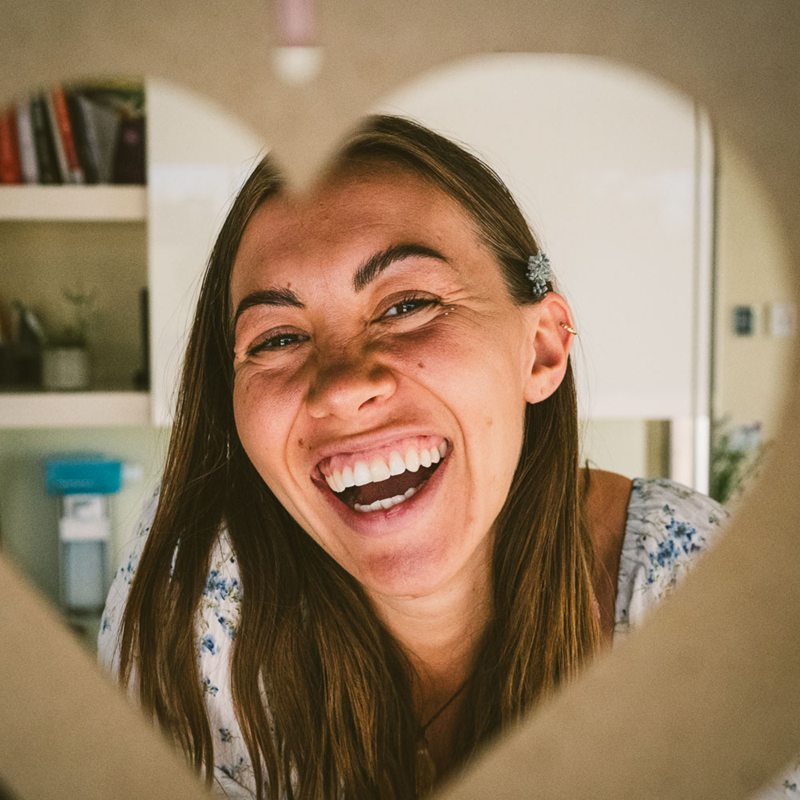
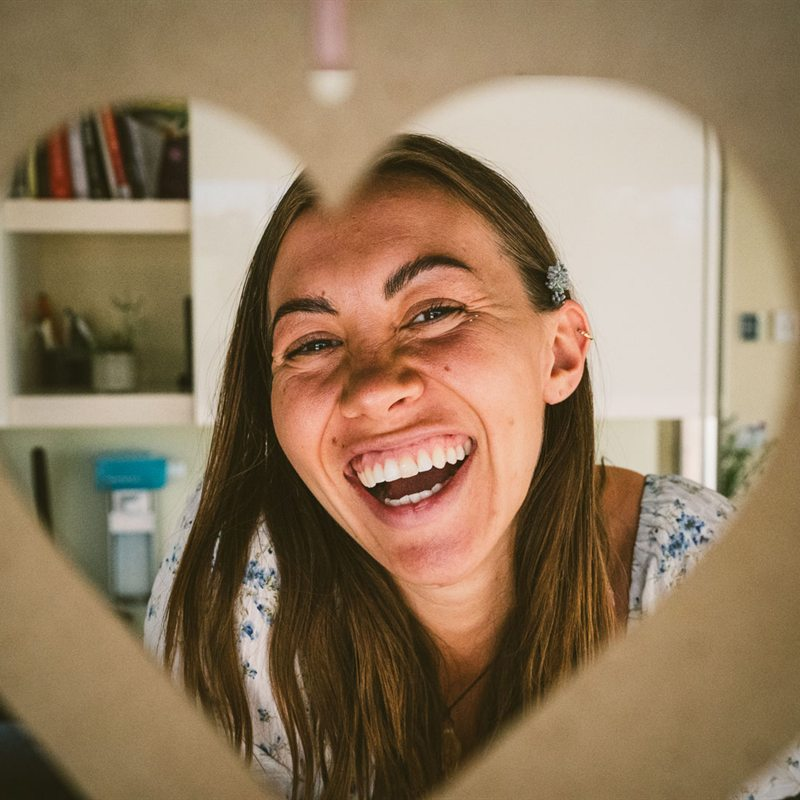
Ueber mich: Portraet weiter gefasst (Herzrahmen sichtbar), Schwerpunkte-Chips entfernt

diff --git a/index.html b/index.html
@@ -140,10 +140,6 @@ img,svg{display:block;max-width:100%}
 .ueber-figur figcaption{margin-top:12px;font-size:13px;color:var(--ink-faint);font-style:italic;font-family:var(--serif)}
 .ueber-text h2{font-size:var(--h2);margin:.3em 0 .5em}
 .ueber-text p+p{margin-top:1em}.ueber-text .muted{color:var(--ink-soft)}
-.quali{margin-top:26px;border-top:1px solid var(--line);padding-top:20px}
-.quali h3{font-size:16px;margin-bottom:12px;text-transform:uppercase;letter-spacing:.08em;font-family:var(--sans);color:var(--ink-soft)}
-.quali ul{list-style:none;display:flex;flex-wrap:wrap;gap:9px}
-.quali li{border:1px solid var(--line);background:var(--sand-deep);border-radius:var(--r-pill);padding:8px 15px;font-size:13.5px;font-weight:700;color:var(--ink-soft)}
 
 /* RETREAT */
 .retreat{background:var(--cream)}
@@ -381,18 +377,6 @@ footer ul{list-style:none;display:grid;gap:9px}footer a{color:#c5b8bf}footer a:h
       <p class="muted">Musik war für mich schon immer so viel mehr als nur schöner Klang — sie ist mein persönlicher Weg zurück zu mir selbst, mein Anker und meine ehrlichste Sprache.</p>
       <p class="muted">Über die Jahre durfte ich erfahren, wie tief Klang heilt, wenn er mit achtsamer Körper- und Atemarbeit verwoben wird. Aus dieser Überzeugung heraus habe ich Musik mit Yin Yoga, Breathwork und der Kraft bewusster Gemeinschaft verbunden. Für mich sind all das nicht nur Methoden, sondern sanfte Werkzeuge, die uns helfen, den Lärm der Welt stumm zu schalten und wieder ganz bei uns im eigenen Körper anzukommen.</p>
       <p class="muted">Heute begleite ich Menschen genau auf dieser Reise nach Hause zu sich selbst: in persönlichen 1:1-Sessions, auf mehrtägigen Retreats und in nährenden Frauenkreisen. Mein wichtigster Anspruch dabei ist es, einen ruhigen, geschützten Raum zu schaffen — einen Ort ohne Leistungsdruck, an dem jede Emotion Platz hat, Masken fallen dürfen und jede Stimme wirklich gehört wird.</p>
-      <div class="quali">
-        <h3>Arbeitsweise &amp; Schwerpunkte</h3>
-        <ul>
-          <li>Einzelbegleitung</li>
-          <li>Yoga (1:1 &amp; Gruppen)</li>
-          <li>Frauenkreise</li>
-          <li>Retreats</li>
-          <li>Breathwork</li>
-          <li>Voice Activation</li>
-          <li>Musik</li>
-        </ul>
-      </div>
     </div>
   </div>
 </section>
